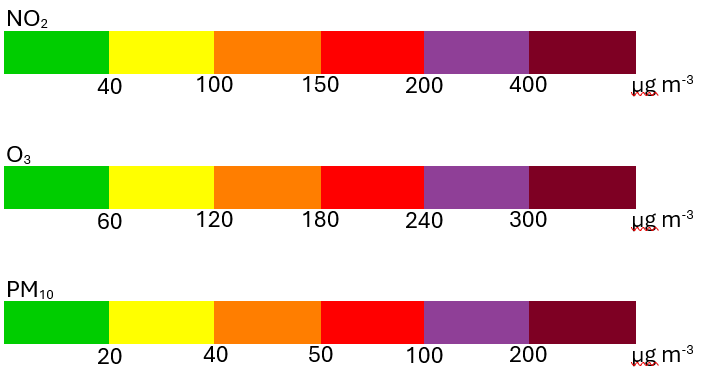
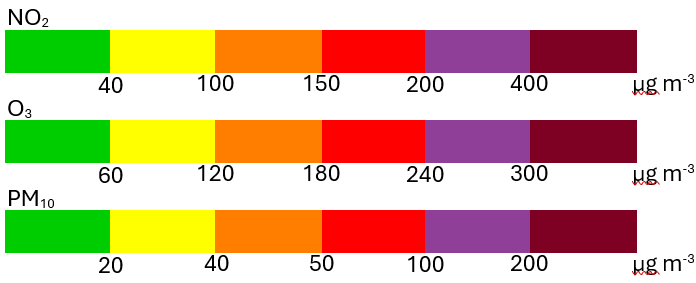
Farbskala eingefügt

Changed region(s): [[0.0, 0.0283, 1.0, 0.3392], [0.0, 0.6502, 1.0, 0.9894], [0.0, 0.3392, 1.0, 0.6502]]

diff --git a/forecast/index.html b/forecast/index.html
@@ -90,7 +90,7 @@
                 <!-- KI_BEGIN -->
                 <div id="layer-timestamp" style="width:100%;max-width:700px;margin:8px auto 0 auto;text-align:center;font-size:15px;"></div>
                 <!-- KI_END -->
-                <strong style="text-align: right;">Unit:</strong> [ug m-3]
+                <strong style="text-align: right;">Unit:</strong> [μg m-3]
             </nav>
 
             <div id="map"></div>
@@ -118,6 +118,7 @@
             <strong>Data Sources:
                 <a href="https://data.hub.geosphere.at/dataset/chem-v2-1h-9km"> Geosphere Austria</a>
                 </strong> <br>
+                <img src="Farbskala.png" height="170px"> <br>
             <strong>Handling:</strong> Use the arrows on your keyboard to change the timestamps. <br>
             <a href="../index.html">Startseite</a>
             <a href="../nowcast/index.html">aktuelle Messwerte</a>
